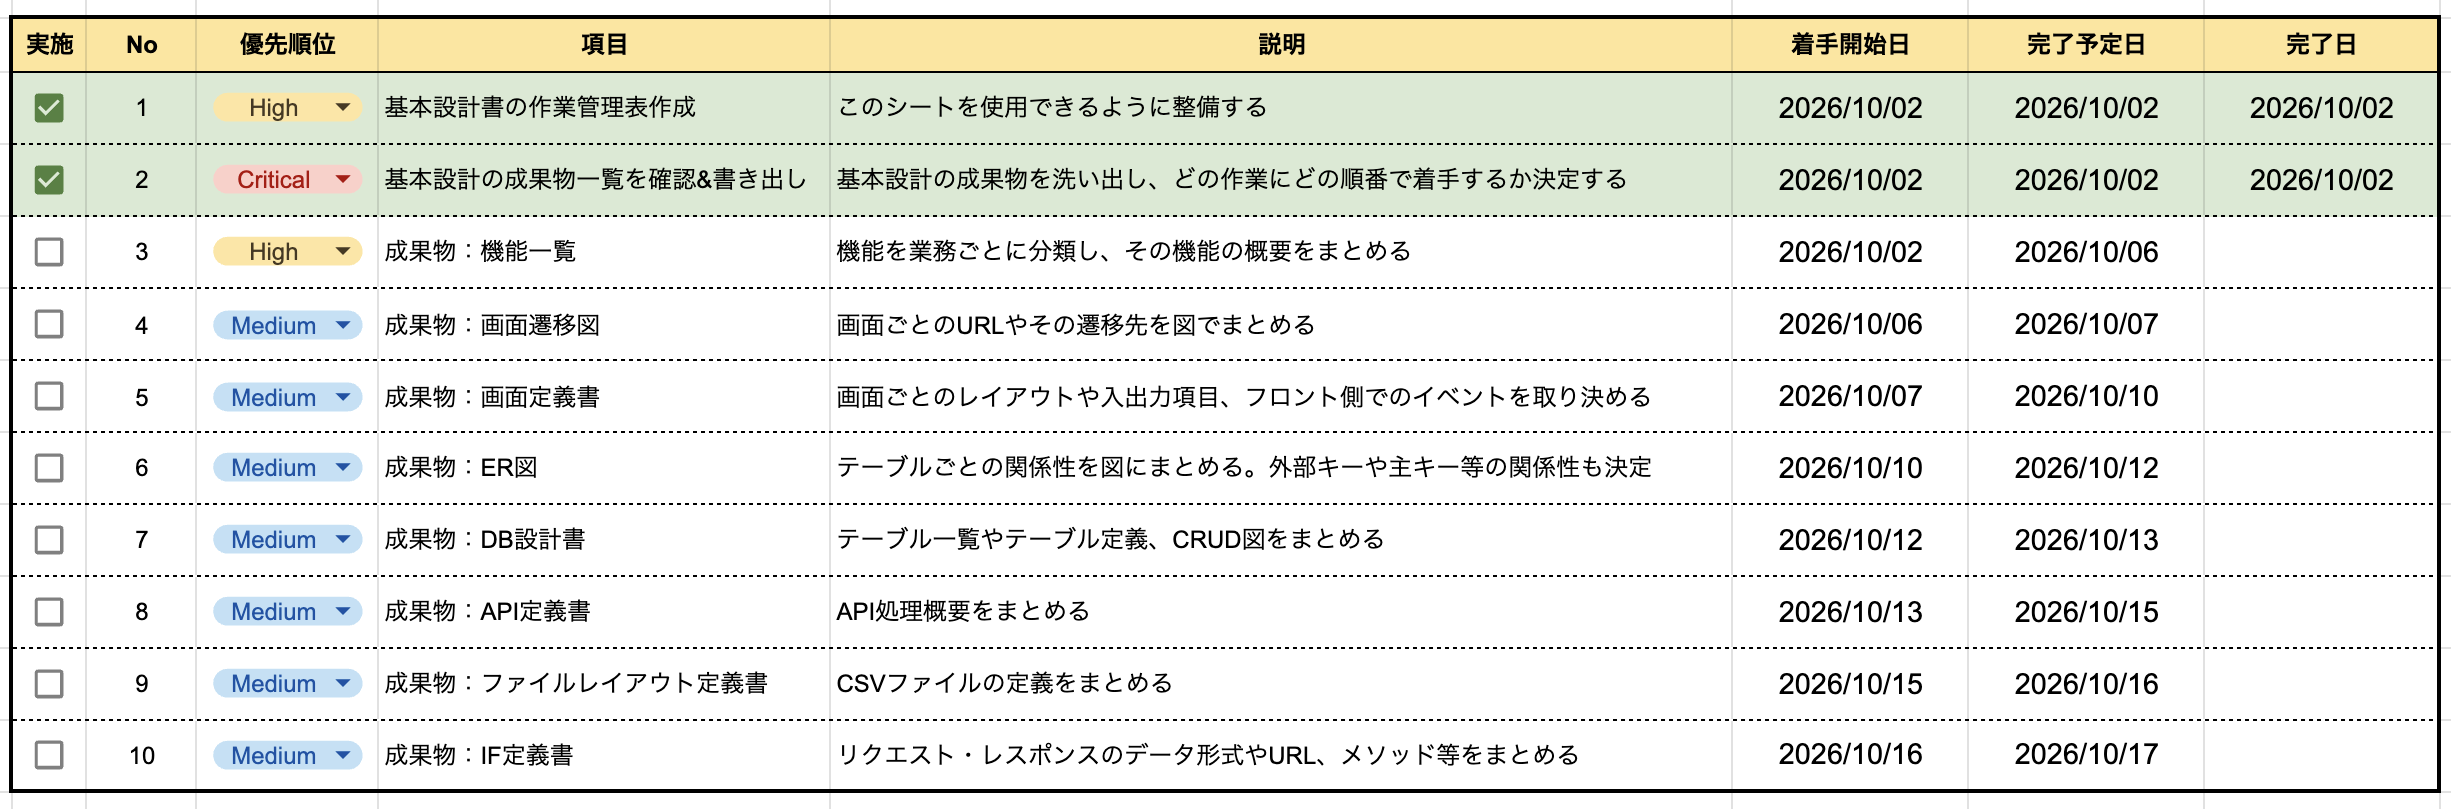
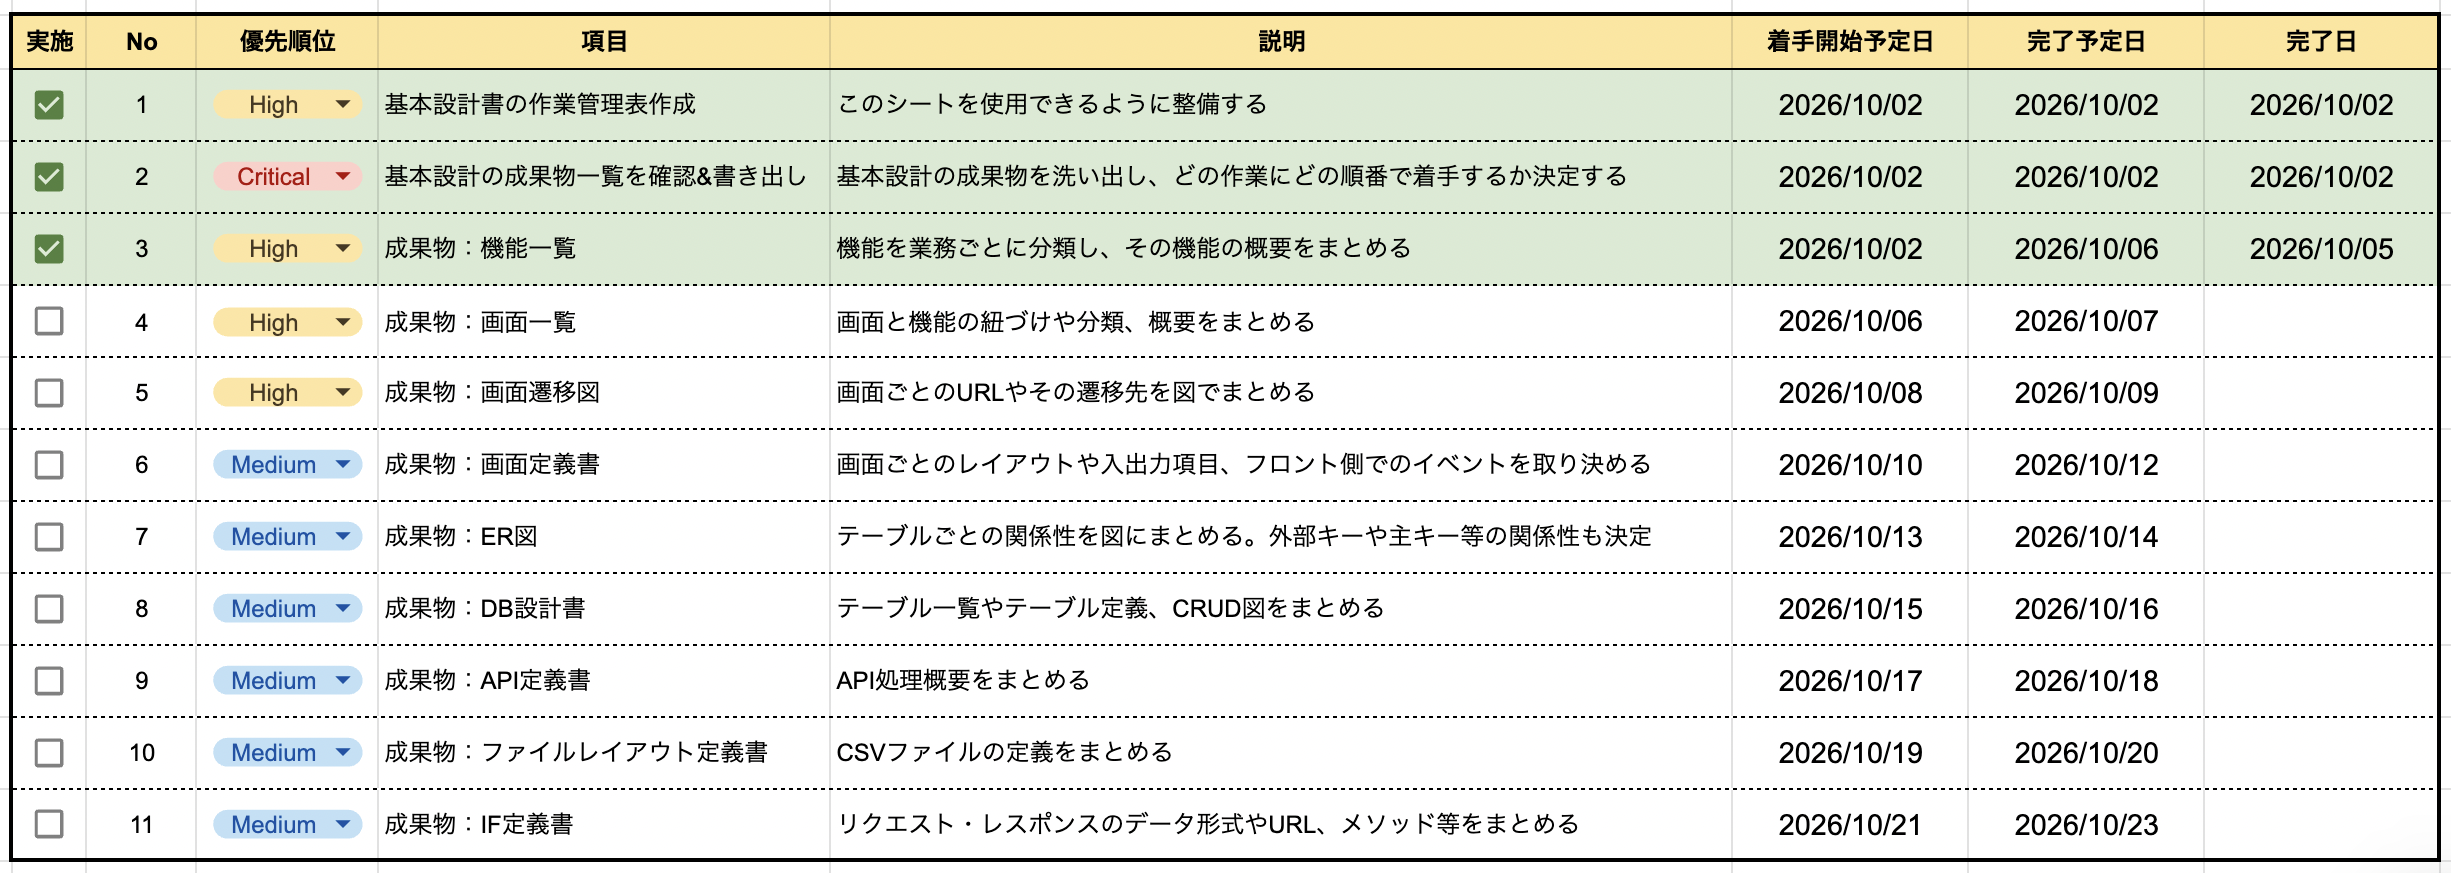
[docs]READMEに最新の作業管理表と参考資料を追加する

diff --git a/README.md b/README.md
@@ -25,3 +25,5 @@
 
 - [「要件定義書」を作成してみる](https://qiita.com/minimumskills/items/f9589953d48118d9f71f)
 - [要件定義｜3分で読める非機能要件について](https://qiita.com/ho__na/items/a84f9a0db793cb0411db)
+- [基本設計における成果物一覧と書き方](https://pm-rasinban.com/bd-write)
+- [機能一覧とは？システム開発に必要な項目や書き方を解説](https://products.sint.co.jp/blog/feature-list)
